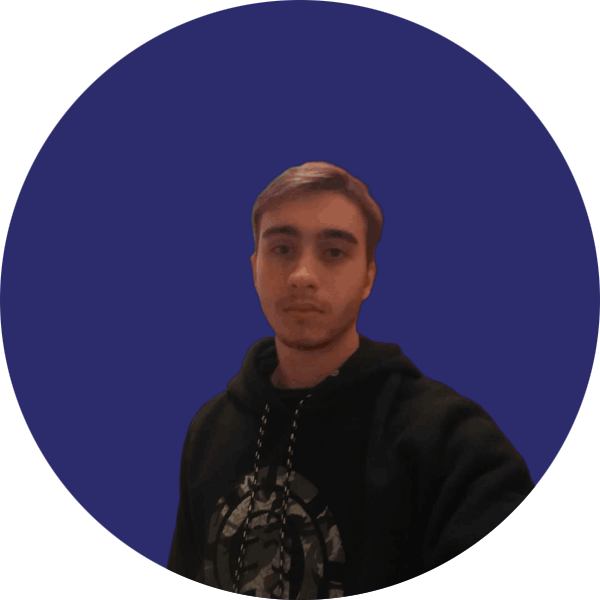
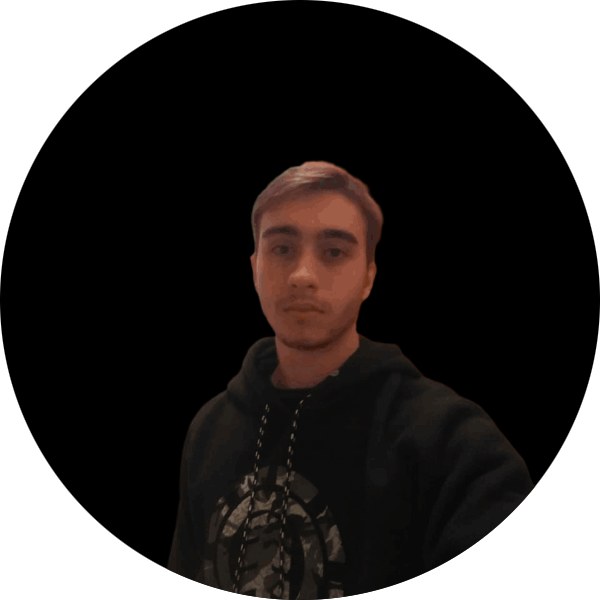
fix bugs

diff --git a/src/app/components/menus/navigationMenu/index.tsx b/src/app/components/menus/navigationMenu/index.tsx
@@ -5,6 +5,7 @@ import {
 	ContactIcon,
 	HomeIcon,
 	ProjectsIcon,
+	SettingsIcon,
 } from "../../icons/iO5Icons.styled";
 import { useState } from "react";
 import { Icon, Legend, List } from "../mobileMenu/style";
@@ -15,8 +16,9 @@ export default function NavigationMenu() {
 	const itemActiveStyles: { [key: string]: { transform: string } } = {
 		Home: { transform: `translateX(calc(70px*0))` },
 		About: { transform: `translateX(calc(70px*1))` },
-		Projects: { transform: `translateX(calc(70px*2))` },
-		Contact: { transform: `translateX(calc(70px*3))` },
+		Skills: { transform: `translateX(calc(70px*2))` },
+		Projects: { transform: `translateX(calc(70px*3))` },
+		Contact: { transform: `translateX(calc(70px*4))` },
 	};
 
 	return (
@@ -26,7 +28,7 @@ export default function NavigationMenu() {
 					className={itemActive === "Home" ? "active" : "drop"}
 					onClick={() => setItemActive("Home")}
 				>
-					<Link href="#">
+					<Link href="#Home">
 						<Icon
 							className="icon"
 							style={itemActive === "Home" ? { color: "white" } : {}}
@@ -40,7 +42,7 @@ export default function NavigationMenu() {
 					className={itemActive === "About" ? "active" : "drop"}
 					onClick={() => setItemActive("About")}
 				>
-					<Link href="#">
+					<Link href="#About">
 						<Icon
 							className="icon"
 							style={itemActive === "About" ? { color: "white" } : {}}
@@ -51,10 +53,24 @@ export default function NavigationMenu() {
 					</Link>
 				</Item>
 				<Item
+					className={itemActive === "Skills" ? "active" : "drop"}
+					onClick={() => setItemActive("Skills")}
+				>
+					<Link href="#Skills">
+						<Icon
+							className="icon"
+							style={itemActive === "Skills" ? { color: "white" } : {}}
+						>
+							<SettingsIcon />
+						</Icon>
+						<Legend className="text">Skills</Legend>
+					</Link>
+				</Item>
+				<Item
 					className={itemActive === "Projects" ? "active" : "drop"}
 					onClick={() => setItemActive("Projects")}
 				>
-					<Link href="#">
+					<Link href="#Projects">
 						<Icon
 							className="icon"
 							style={itemActive === "Projects" ? { color: "white" } : {}}
@@ -68,7 +84,7 @@ export default function NavigationMenu() {
 					className={itemActive === "Contact" ? "active" : "drop"}
 					onClick={() => setItemActive("Contact")}
 				>
-					<Link href="#">
+					<Link href="#Contact">
 						<Icon
 							className="icon"
 							style={itemActive === "Contact" ? { color: "white" } : {}}

diff --git a/src/app/components/containers/containers.styled.tsx b/src/app/components/containers/containers.styled.tsx
@@ -1,18 +1,34 @@
 import styled from "styled-components";
 
+// export const Section = styled.section`
+// 	position: relative;
+// 	width: 100%;
+// 	margin-top: 7rem;
+// 	/* margin-bottom: 13rem; */
+// 	@media only screen and (max-width: 900px) {
+// 		margin-bottom: 8rem;
+// 	}
+// `;
+
 export const Section = styled.section`
 	position: relative;
 	width: 100%;
-	margin-top: 7rem;
+	display: flex;
+	align-items: center;
+	flex-direction: column;
+	justify-content: center;
+	max-height: 100%;
 	/* margin-bottom: 13rem; */
 	@media only screen and (max-width: 900px) {
-		margin-bottom: 8rem;
+		margin-bottom: 6rem;
+		margin-top: 4rem;
 	}
 `;
 
 export const SeparatorSection = styled.div`
 	display: flex;
-	/* align-items: center; */
+	align-items: center;
+	width: 100%;
 	transition: 0.5s;
 	padding: 1rem;
 	gap: 2rem;

diff --git a/src/app/components/features/introduction/desktop/boxOne/index.tsx b/src/app/components/features/introduction/desktop/boxOne/index.tsx
@@ -7,13 +7,15 @@ export default function BoxOne() {
 		<BoxOneContainer>
 			{/* <Content>Hello Theree!!</Content> */}
 			<Modal>
-				{/* <Banner
+				<Banner
 					src={
-						"https://www.ntc.edu/sites/default/files/styles/full_width_16_9/public/2021-06/software-development-specialist.jpg?itok=D8qgVwxb"
+						"https://media.istockphoto.com/id/1426549627/pt/foto/close-up-of-screen-showing-software-code.jpg?s=612x612&w=0&k=20&c=go_kw3VvIT9EbPwHwQKu1PaJgft1xGkj1ii-8fITPkg="
 					}
-				/> */}
-				<Banner src={BannerPhoto.src} />
+				/>
+				{/* <Banner src={BannerPhoto.src} /> */}
 			</Modal>
 		</BoxOneContainer>
 	);
 }
+
+// https://www.ntc.edu/sites/default/files/styles/full_width_16_9/public/2021-06/software-development-specialist.jpg?itok=D8qgVwxb

diff --git a/src/app/components/features/introduction/desktop/style.ts b/src/app/components/features/introduction/desktop/style.ts
@@ -1,8 +1,13 @@
 import styled from "styled-components";
 
-export const BoxContainer = styled.section`
-	margin-top: 2rem;
+export const DesktopContainer = styled.section`
+	width: 100%;
+`;
+
+export const BoxContainer = styled.div`
 	display: flex;
+	width: 100%;
+	margin-top: 3rem;
 	justify-content: end;
 	@media only screen and (max-width: 1478px) {
 		display: none;
@@ -17,7 +22,7 @@ export const Card = styled.div`
 	display: flex;
 	flex-direction: column;
 	justify-content: space-between;
-	margin-bottom: 3.7rem;
+	/* margin-bottom: 3.7rem; */
 
 	@media only screen and (max-width: 1200px) {
 		display: none;

diff --git a/src/app/components/features/introduction/desktop/index.tsx b/src/app/components/features/introduction/desktop/index.tsx
@@ -1,17 +1,19 @@
 import React from "react";
-import { BoxContainer, Card } from "./style";
+import { BoxContainer, Card, DesktopContainer } from "./style";
 import BoxOne from "./boxOne";
 import BoxTwo from "./boxTwo";
 import Circle from "./circle";
 
 export default function DesktopIntroduction() {
 	return (
-		<BoxContainer>
-			<Card>
-				<BoxOne />
-				<BoxTwo />
-				<Circle />
-			</Card>
-		</BoxContainer>
+		<DesktopContainer>
+			<BoxContainer>
+				<Card>
+					<BoxOne />
+					<BoxTwo />
+					<Circle />
+				</Card>
+			</BoxContainer>
+		</DesktopContainer>
 	);
 }

diff --git a/src/app/components/features/introduction/desktop/boxOne/style.ts b/src/app/components/features/introduction/desktop/boxOne/style.ts
@@ -7,7 +7,7 @@ export const BoxOneContainer = styled.div`
 	background-color: ${({ theme }) => theme.secondColor};
 	/* box-shadow: 5px 5px 10px rgba(0, 0, 0, 0.4); */
 	border-radius: 2rem;
-
+	animation: progress 2s ease-in-out forwards;
 	&::before {
 		content: "";
 		position: absolute;
@@ -33,6 +33,16 @@ export const BoxOneContainer = styled.div`
 		z-index: 10;
 		border-bottom-left-radius: 20px;
 		box-shadow: -6px 6px ${({ theme }) => theme.background};
+	}
+
+	@keyframes progress {
+		0% {
+			width: 0;
+			opacity: 0;
+		}
+		100% {
+			opacity: 1;
+		}
 	}
 `;
 

diff --git a/src/app/components/features/contact/index.tsx b/src/app/components/features/contact/index.tsx
@@ -8,14 +8,14 @@ import BoxTwoContact from "./boxTwo";
 export default function Contact() {
 	const { language } = useContext(LanguageContext) || {};
 	return (
-		<Section>
+		<Section id="Contact">
 			<H2>{language === "Portuguese" ? "Contato" : "Contact"}</H2>
 			<H5 style={{ marginBottom: `3rem` }}>
 				{language === "Portuguese"
 					? "Vamos trabalhar juntos"
 					: "Let's work together"}
 			</H5>
-			<SeparatorSection>
+			<SeparatorSection style={{ marginBottom: `4rem` }}>
 				<BoxOneContact />
 				<BoxTwoContact />
 			</SeparatorSection>

diff --git a/src/app/components/features/projects/style.ts b/src/app/components/features/projects/style.ts
@@ -3,12 +3,15 @@ import styled from "styled-components";
 export const ProjectSection = styled.section`
 	position: relative;
 	width: 100%;
-	margin-top: 8rem;
-	margin-bottom: 2rem;
-	/* min-height: 100vh; */
-	/* @media only screen and (max-width: 900px) {
-		margin-bottom: 8rem;
-	} */
+	display: flex;
+	align-items: center;
+	flex-direction: column;
+	justify-content: center;
+	/* margin-bottom: 13rem; */
+	@media only screen and (max-width: 900px) {
+		/* margin-bottom: 8rem; */
+		margin-top: 4rem;
+	}
 `;
 
 export const Cards = styled.div`

diff --git a/src/app/styles/theme.tsx b/src/app/styles/theme.tsx
@@ -3,13 +3,13 @@ export const lightTheme = {
 	background: "hsl(252, 30%, 95%)",
 	text: "hsl(252, 30%, 10%)",
 	textInverse: "hsl(252, 30%, 100%)",
-	secondColor: "black",
+	secondColor: "#000000",
 };
 export const darkTheme = {
 	container: "hsl(252, 30%, 10%)",
 	background: "hsl(252, 30%, 17%)",
 	text: "hsl(252, 30%, 100%)",
 	textInverse: "hsl(252, 30%, 10%)",
-	secondColor: "black",
+	secondColor: "#000000",
 };
 // secondColor: "#2c2c6c",

diff --git a/src/app/components/features/about/index.tsx b/src/app/components/features/about/index.tsx
@@ -8,7 +8,7 @@ import { Section, SeparatorSection } from "../../containers/containers.styled";
 export default function About() {
 	const { language } = useContext(LanguageContext) || {};
 	return (
-		<Section>
+		<Section id="About" style={{ minHeight: `98vh` }}>
 			<H2>{language === "Portuguese" ? "Sobre" : "About Me"}</H2>
 			<H5>{language === "Portuguese" ? "Conheça mais" : "Get To Know"}</H5>
 			<SeparatorSection>

diff --git a/src/app/templates/introduction/index.tsx b/src/app/templates/introduction/index.tsx
@@ -4,7 +4,7 @@ import DesktopIntroduction from "@/app/components/features/introduction/desktop"
 import MobileIntroduction from "@/app/components/features/introduction/mobile";
 export default function IntroductionTemplate() {
 	return (
-		<IntroductionContainer>
+		<IntroductionContainer id="Home">
 			<DesktopIntroduction />
 			<MobileIntroduction />
 		</IntroductionContainer>

diff --git a/src/app/components/features/skills/index.tsx b/src/app/components/features/skills/index.tsx
@@ -14,7 +14,7 @@ import {
 export default function Skills() {
 	const { language } = useContext(LanguageContext) || {};
 	return (
-		<Section>
+		<Section id="Skills" style={{ minHeight: `90vh` }}>
 			<H2>{language === "Portuguese" ? "Habilidades" : "Skills"}</H2>
 			<H5 style={{ marginBottom: `4rem` }}>
 				{language === "Portuguese" ? "Meus Serviços" : "My Services"}
